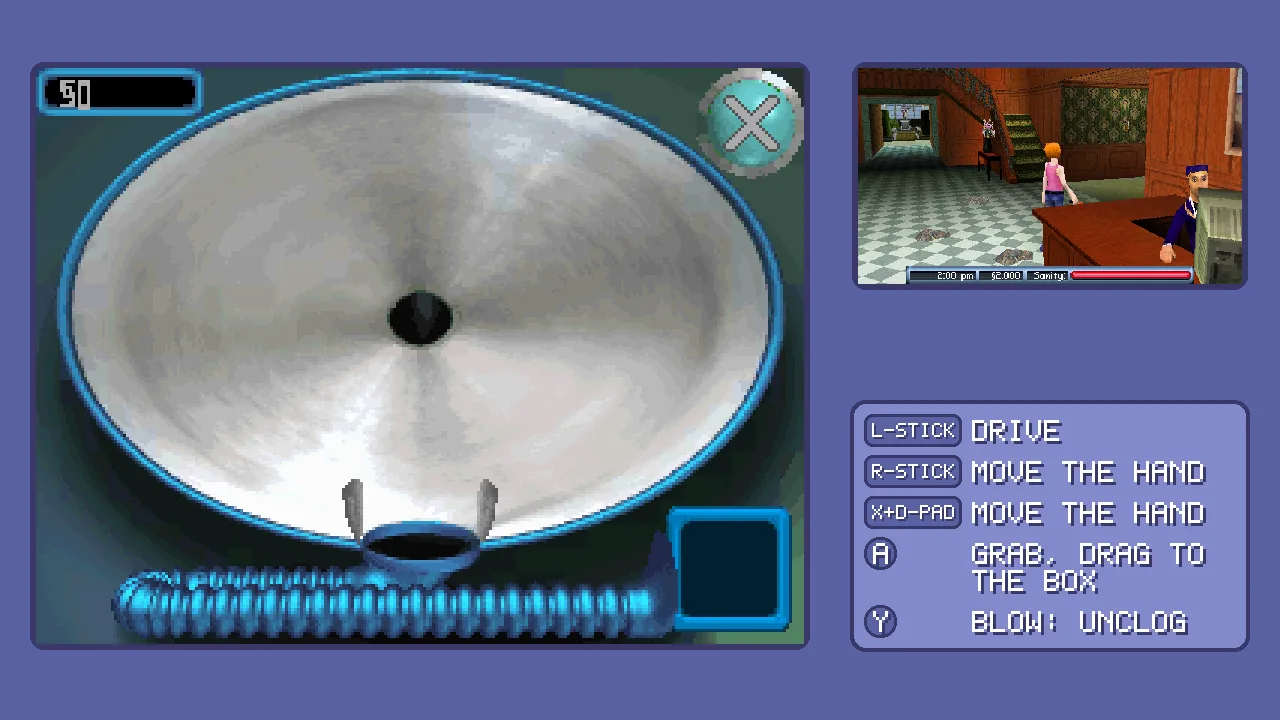
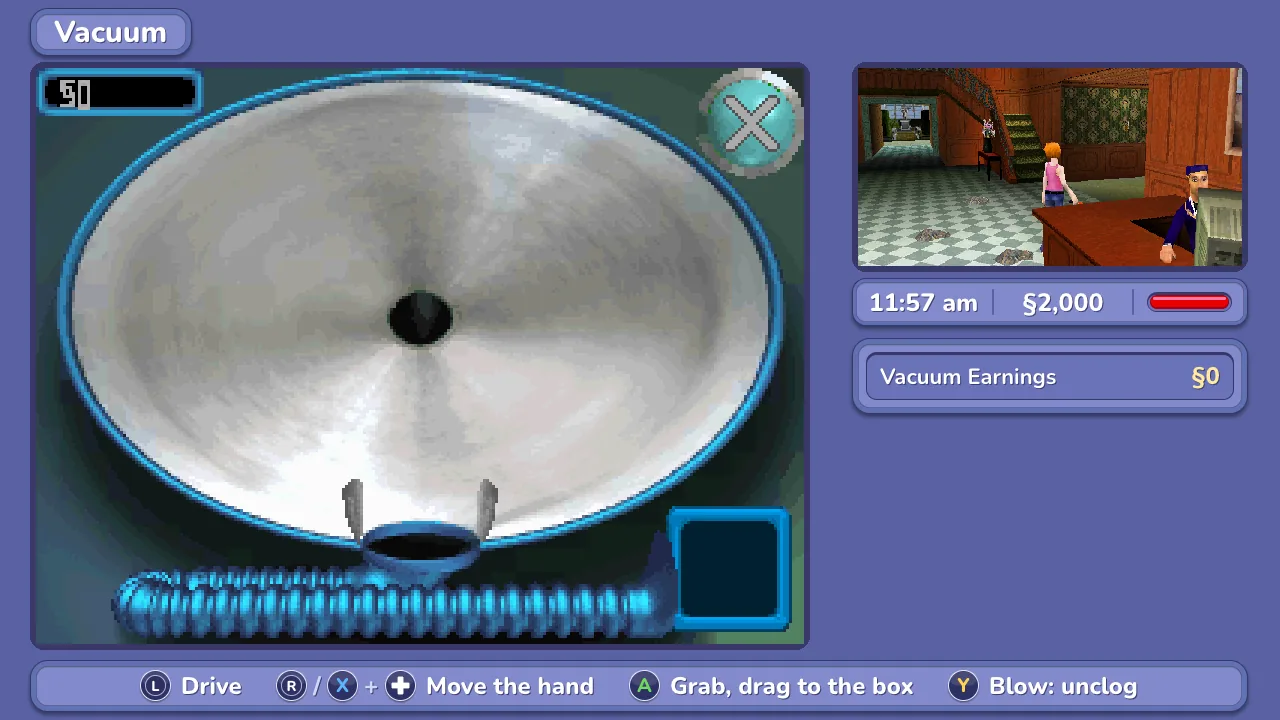
Docs: the minigames
README: every minigame's scheme, refreshed pictures (cards, autopsy, vacuum in the new frame).
CHANGELOG Unreleased, CONTRIBUTING (MAX_SIMS, --print-minigame), CLAUDE.md (known limits).

Changed region(s): [[0.0312, 0.3667, 1.0, 1.0], [0.0312, 0.0, 0.1562, 0.0917]]

diff --git a/CLAUDE.md b/CLAUDE.md
@@ -162,6 +162,15 @@ frames go back to `top big` around frame 1570, when the game returns to town.
   sessions, 20 a run, 200 in all. It writes nothing on another ROM and, headless, nothing without
   `--record-dir`. A capture's `.st` holds the game's memory: never commit or attach one; the
   `.png` is what a player sends.
+- Known limits of the minigames (milestone 6): (1) MooGoo Monkey, the crime game, the Scratch lottery, the mixer and
+  its save page were reached on the research's patched states only (the casino's Monkey Day, the Ratticator costume
+  and the lounge's keyboard are not in the complete save), and no goon was near in any state: a hit, the lit crime
+  buttons and the subdue are the game's own code only. (2) The pointer's feel on a real stick (the curve, 5 pixels
+  a frame, LT slow) is untested on hardware. (3) The social game has no part in RAM: its answers' words are live
+  crops, its title plate none. (4) The wireless lobby (trading) needs a second DS: a note only. (5) The painting's
+  palette page arrows and the Drencher's help are the mouse's. (6) The wide frame's top screen of the cards keeps
+  the game's 4:3 with black sides (the game draws it so). (7) A mouse click on an animation's row of the HD menu does not also close the menu (the controller's A does). (8) The hints are the port's own translations of five
+  languages, short; a word that does not fit shrinks, then is cut (`--measure-menu` reports the lines).
 - Known limits of CONSOLE's RAM-led screen: (1) quitting the cards shows about 10 frames of the
   cards' layout over black (the pixels go black before RAM leaves Cards); (2) a goal popup over
   the Options tab reads Unknown (the stick cursor) only without its HD view (`--no-romdata`): with it, every popup over
@@ -554,11 +563,15 @@ frames go back to `top big` around frame 1570, when the game returns to town.
   game's D-pad (the hero walks); A taps dig (180,152), B power (78,152: off, then the panel); LB /
   RB (`kKnobStep` 1.5 a frame) or the right stick (`kKnobStick` 3) press the slider's knob where
   RAM puts it (x 195, y 33 + 88 × value / 4096), 2 frames still, then move it, and let go when
-  released (no pointer drawn). Painting: LB / RB tap the previous / next of the ten tool buttons
+  released (no pointer drawn). The "Found:" card (state 5) ends by itself after about 125 frames (checked
+  in game: A, B, a touch and walking change nothing but the dig and power buttons), so no button is bound to it;
+  the game leaves the card flag set in state 3, so `DetectorState::card` is read in state 5 only. Painting: LB / RB tap the previous / next of the ten tool buttons
   (`ArtTool`: 14, 14 + 26 b for b < 6, else 241, 66 + 26 (b − 6)), X the next swatch of the page
   (`ArtSwatch`: 55 + 25 i, 165 for i < 7, else 43 + 25 (i − 7), 187), Y undo (241,40), B the game's
   X (241,14) → its popup "Are you done painting?" (kind 2, read by `GameState::town.popup`), on
-  which A taps the tick and B the cross (`PopupButton`), the rest waiting. Checked in game by
+  which A taps the tick and B the cross (`PopupButton`), the rest waiting (`ActivityRam::askUp`: the question is up,
+  opening, shown or closing, and the painting waits; `ask`: shown, the buttons live and tapped). The palette page
+  arrows stay the mouse's. Checked in game by
   `console_check.sh`'s `mg-*` runs (below). The pointer's feel on a real stick is not checked on
   hardware.
 - The timing minigames (`activities.cpp`, milestone 6; `Screen::MooGoo`, `Drencher`, `Crime`, from RAM
@@ -573,14 +586,16 @@ frames go back to `top big` around frame 1570, when the game returns to town.
   monkey alive with a free slot (`MooGooMonkeyRect`), sub 3 a card of the hand (from the game's
   selected one; `MooGooCardRect`), sub 5 a monkey's pile (alive; one with cards first: King
   Gorilla's needs one; `MooGooPileRect`); Left / Right skip the others, A taps the middle; B is the
-  game's own in 3 and 5 (the bet undone, the card put back), else the game's X (241,177) like Start:
+  game's own in 2 to 5 of a human's turn (the bet undone, the card put back; the focus restarts at each step:
+  the hand from the game's selected card, a monkey from the first), else the game's X (241,177) like Start (also when
+  MooGoo's part does not read: the controller can always leave):
   its question "Are you sure you want to quit?" (A Yes 96,96, B No 160,96). A full round on A alone
   (every 30 frames) takes about 5400 frames: the AI's 30-frame steps. The Super Drencher (Pockets'
   hand): the game's D-pad walks, its A fires (water -0.1, pressure -0.5 a tick: 125 to 25 in 400
   frames), LB its B (run); X held pumps: the stylus on row 120 swept 8 pixels a frame between 52 and
   228 (the game adds |dx| / 10 a tick past 5 pixels): 25 to 125 in about 140 frames; Y the target
   (locks the nearest: the casino's cards table, object 29), RB refill, B its X (the panel); its help
-  (?) is left to the mouse. The crime game (the panel's Ratarang button with the Ratticator's
+  (?) opens with the mouse only: while it is up B taps the "?" (88,176) to leave, and a help text closes on any press. The crime game (the panel's Ratarang button with the Ratticator's
   costume: reached only on the research's patched states, and no goon near in any state, so a hit,
   the lit buttons and the subdue are the game's code only): A held presses the centre rat (128,96),
   then a stick or the D-pad (the pointer's `MovePointer`, at most 3 pixels a frame) slides it along

diff --git a/CONTRIBUTING.md b/CONTRIBUTING.md
@@ -59,7 +59,7 @@ Before opening a pull request:
     ninja -C build controls_test && ./build/controls_test     # one action per key and input, settings files loaded through the swap (SDL's dummy video driver)
     bash tests/console_check.sh              # CONSOLE's pictures hold the DS pixels where they belong (and the hints), the navigator's and the activities' pad scripts (the shop's buys and sells, Build Rooms' buy, cancel and double press, the Registry, check-in, room info, the music and stat pages), the HD conversation (its page follows the game's, A turns two pages, every language's conversations fit the box, every language's HD menu words fit theirs, no character missing from the font, no game text: milestone 1's box) (ROM, shots/, the complete save, Pillow)
     ninja -C build gamestate_test && ./build/gamestate_test   # the RAM reader and its screen names on a synthetic RAM (the menus' lists and the hotel's and shops' screens too, fuzzed: the tabs, the phone, Give Gift, notes, the catalogue, Build Rooms, the Registry, room info, music, the stat panel never crash or run past their caps)
-    bash tests/gamestate_check.sh            # each save state's game state read from RAM, the recorder's captures (ROM, shots/, the complete save)
+    bash tests/gamestate_check.sh            # each save state's game state read from RAM, the minigames' parts (`--print-minigame`), the recorder's captures (ROM, shots/, the complete save)
     ninja -C build romdata_test && ./build/romdata_test       # the ROM's archive and string tables, the compressions, the sprites and the icon cache on a synthetic ROM: decoded, and every broken table refused (also once under UBSan and libc++'s hardened mode, not ASan)
     ninja -C build uikit_test && ./build/uikit_test           # the UI kit: text wrapping, the raster's determinism and hash, panels, text and chips (no ROM, no window)
     bash tests/romdata_check.sh              # the game's strings read from the ROM in its five languages, its compressed resources and sprites (ROM; RESEARCH= the decoded lines to compare with, else that part is skipped)
@@ -141,10 +141,15 @@ The headless mode runs the game without a window, about four times faster than r
 | `--console-menu`, `--console-focus N` | (checks) pin CONSOLE's menu open and its focus on item N of the HD view, for a picture; `-1` none |
 | `--dialogue-string ID` | (checks) the HD conversation shows string ID on every page (the longest strings' pictures) |
 | `--game-unknown-after N` | (checks) fake a new unmapped screen every 200 frames from frame N, to drive the recorder |
+| `--print-minigame` | print the minigame the bottom screen shows (the autopsy, detector, MooGoo, lottery, Drencher, crime game, mixer, save page, painting, cards, vacuum), read from RAM, when it changes |
 | `--no-romdata` | do not read the game's text: CONSOLE as in milestone 1 (the old status bar and conversation) |
 | `--compose-scale N` | `--compose` pictures N times the canvas (1 to 4), the UI drawn at that size |
 | `--ui-demo` | the UI kit's demonstration drawn over the picture |
 | `SIMS2WIDE_PROBE=N` (environment) | print AUTO's signals every N frames: HUD, social, warm menu, each screen's motion and brightness |
+
+Every `*_check.sh` runs at most `MAX_SIMS` emulators at once (4 by default: set it lower on a
+slow or hot machine). Their pictures and runs of the minigames use the research's `G-*` states in
+`shots/` and copies of the complete save.
 
 A headless run ends with a line that says what the DS clock reads, how often the hold wrote
 it, and how many microphone samples the game read (0 unless it listened).

diff --git a/README.md b/README.md
@@ -164,7 +164,7 @@ hangs up. **A conversation** goes on with A. **Popups** (tips, goals, Game Pause
 B; a question (Quit?) takes A for yes and B for no; when a popup opens over the menu, the menu
 comes back on the same row after it. A note closes on A or B.
 
-**The activities** are played on the buttons too, with a box of hints beside them:
+**The activities** are all played on the buttons, each in its own HD frame with the buttons' hints in a bar below (they follow what the game asks):
 
 | Activity | Key | Controller | Does |
 |---|---|---|---|
@@ -186,21 +186,21 @@ comes back on the same row after it. A note closes on A or B.
 | | Q | LB | carry the organ to the tray (the parasite to the flask) |
 | | Z twice | B twice | quit (the game pays nothing then) |
 | Metal Detector | Arrows | left stick or D-pad | walk |
-| | X / Z | A / B | dig / switch it off |
+| | X / Z | A / B | dig / switch it off (the "Found" card goes by itself) |
 | | Q / W | LB / RB, right stick | depth |
 | Painting | Q / W | LB / RB | the previous / next tool |
 | | S / A | X / Y | the next color / undo |
 | | Z | B | done (then X / A: yes, Z / B: no) |
 | Moogoo Monkey | Left / Right | D-pad or left stick | on your turn: choose the monkey to bet on, the card to play, the monkey a special card goes on (a green ring shows it) |
 | | X | A | bet, play the card; otherwise go on (the rules, the banners, the number of players) |
-| | Z | B | take the bet or the special card back; else quit (then X / A: yes, Z / B: no) |
+| | Z | B | take the bet or the special card back; else quit (then X / A: yes, Z / B: no); a bet placed or a card picked: undo |
 | | Enter | Start | quit |
 | Super Drencher | Arrows | left stick or D-pad | walk |
 | | X (hold) | A (hold) | fire |
 | | S (hold) | X (hold) | pump |
 | | A / W | Y / RB | target / refill |
 | | Q | LB | run |
-| | Z | B | put it away |
+| | Z | B | put it away (if you opened the game's help with the mouse: any button closes its text, B leaves help) |
 | Rat-A-Rang | Arrows | left stick or D-pad | walk |
 | | S / A | X / Y | scare / subdue |
 | | X (hold) + arrows | A (hold) + a stick or the D-pad | aim; let go to throw |
@@ -222,8 +222,9 @@ comes back on the same row after it. A note closes on A or B.
 | | A / Z | Y / B | erase a letter / back to the mixer |
 
 <p align="center">
-  <img src="docs/screenshots/console-cards.webp" alt="CONSOLE: Keelhaulin' Cards big at the left, the world small at the top right, the buttons' hints below it" width="440">
-  <img src="docs/screenshots/console-vacuum.webp" alt="CONSOLE: the hotel's vacuum big, with its hints" width="440">
+  <img src="docs/screenshots/console-cards.webp" alt="CONSOLE: Keelhaulin' Cards big in its frame, the world small at the top right with the score board under it, the buttons' hints in a bar below" width="440">
+  <img src="docs/screenshots/console-autopsy.webp" alt="CONSOLE: the Alien Autopsy big with its pointer, the organs' health at the right, the buttons' hints in a bar below" width="440">
+  <img src="docs/screenshots/console-vacuum.webp" alt="CONSOLE: the hotel's vacuum big in its frame, its earnings at the right, the hints below" width="440">
 </p>
 
 The game's own save goes beside the ROM, with the same name and `.sav`. A `.sav` from another

diff --git a/CHANGELOG.md b/CHANGELOG.md
@@ -75,6 +75,17 @@ Windows, Mac and Linux downloads attached; the release takes its notes from that
 - The hotel's vacuum: AUTO shows its bowl big, with the world beside it, clogged or not; the
   blow key (M) clears its clogged filter.
 
+- Every minigame on the controller, in an HD frame of its own: the game's name, its numbers
+  (the cards' score board, the vacuum's earnings, the Alien Autopsy's organs, the Metal Detector's
+  charge, signal and depth, the painting's tool and colour, Moogoo Monkey's round and fruit, the
+  Super Drencher's water and pressure, the lottery ticket's boxes, the music mixer's song and tracks)
+  and a bar of the buttons' hints in the game's five languages that follows what the game asks.
+  The Alien Autopsy, the Metal Detector and the Art Gallery have a pointer on the sticks (LT slows
+  it, A holds the stylus down); Moogoo Monkey a green ring on what A touches; the Drencher, the
+  Rat-A-Rang, the lottery, the mixer and its save page their own buttons. Every one can be left
+  with a button. New checks: `--print-minigame`, the minigames' reader from memory, `MAX_SIMS`
+  (the emulators a check runs at once, 4).
+
 ### Fixed
 
 - A quick click or a trackpad tap on the touch screen was often lost (the button went down and
